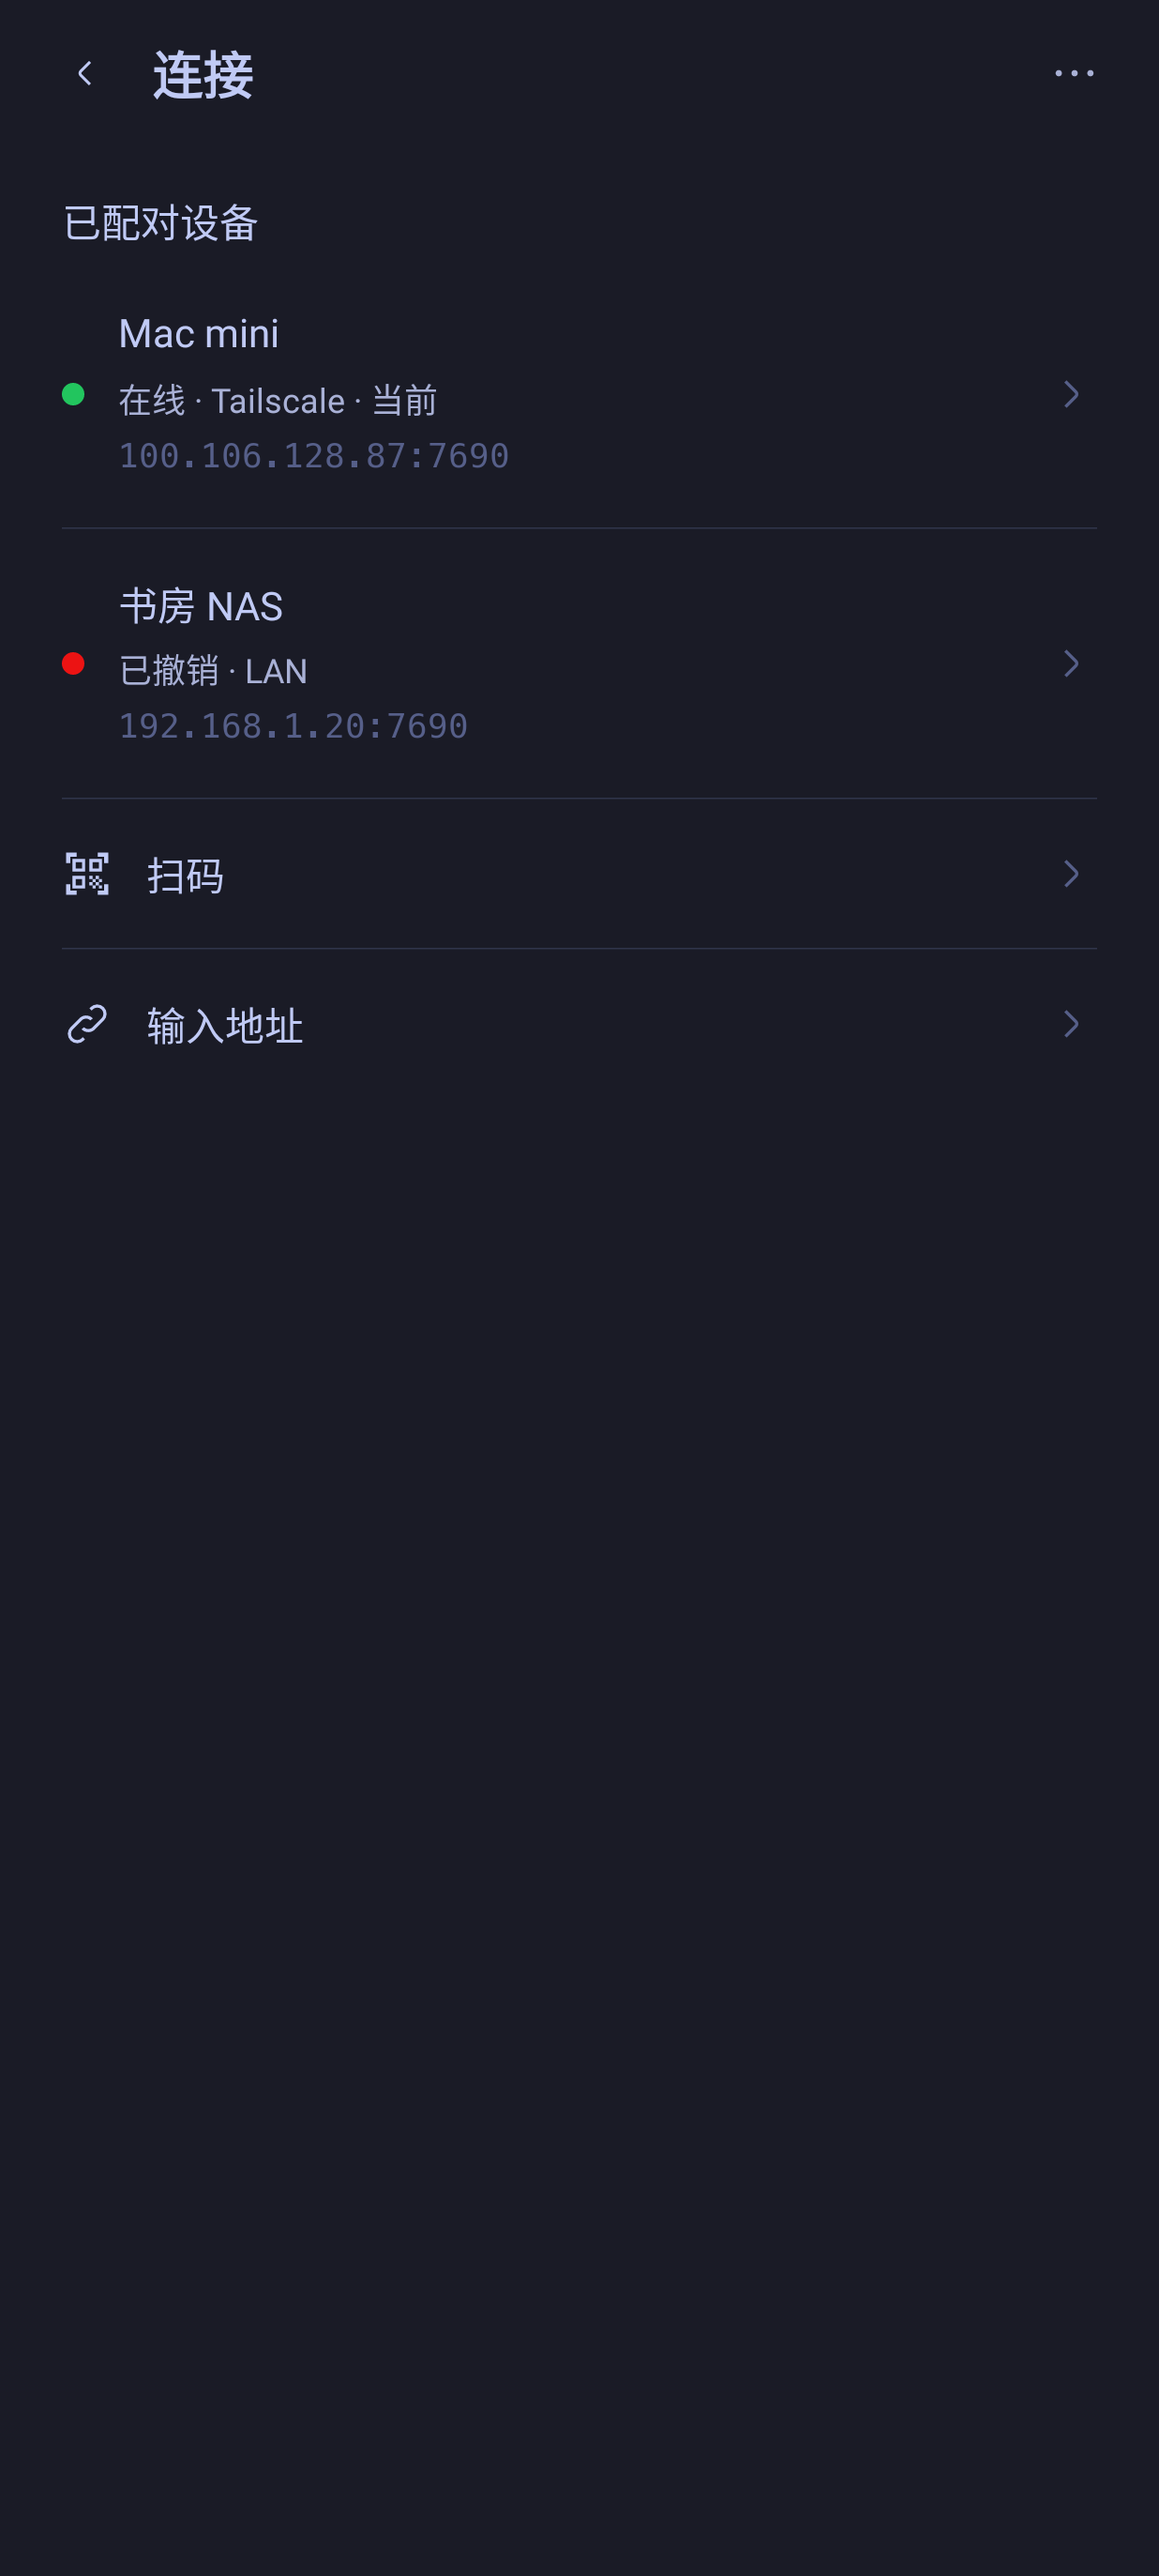
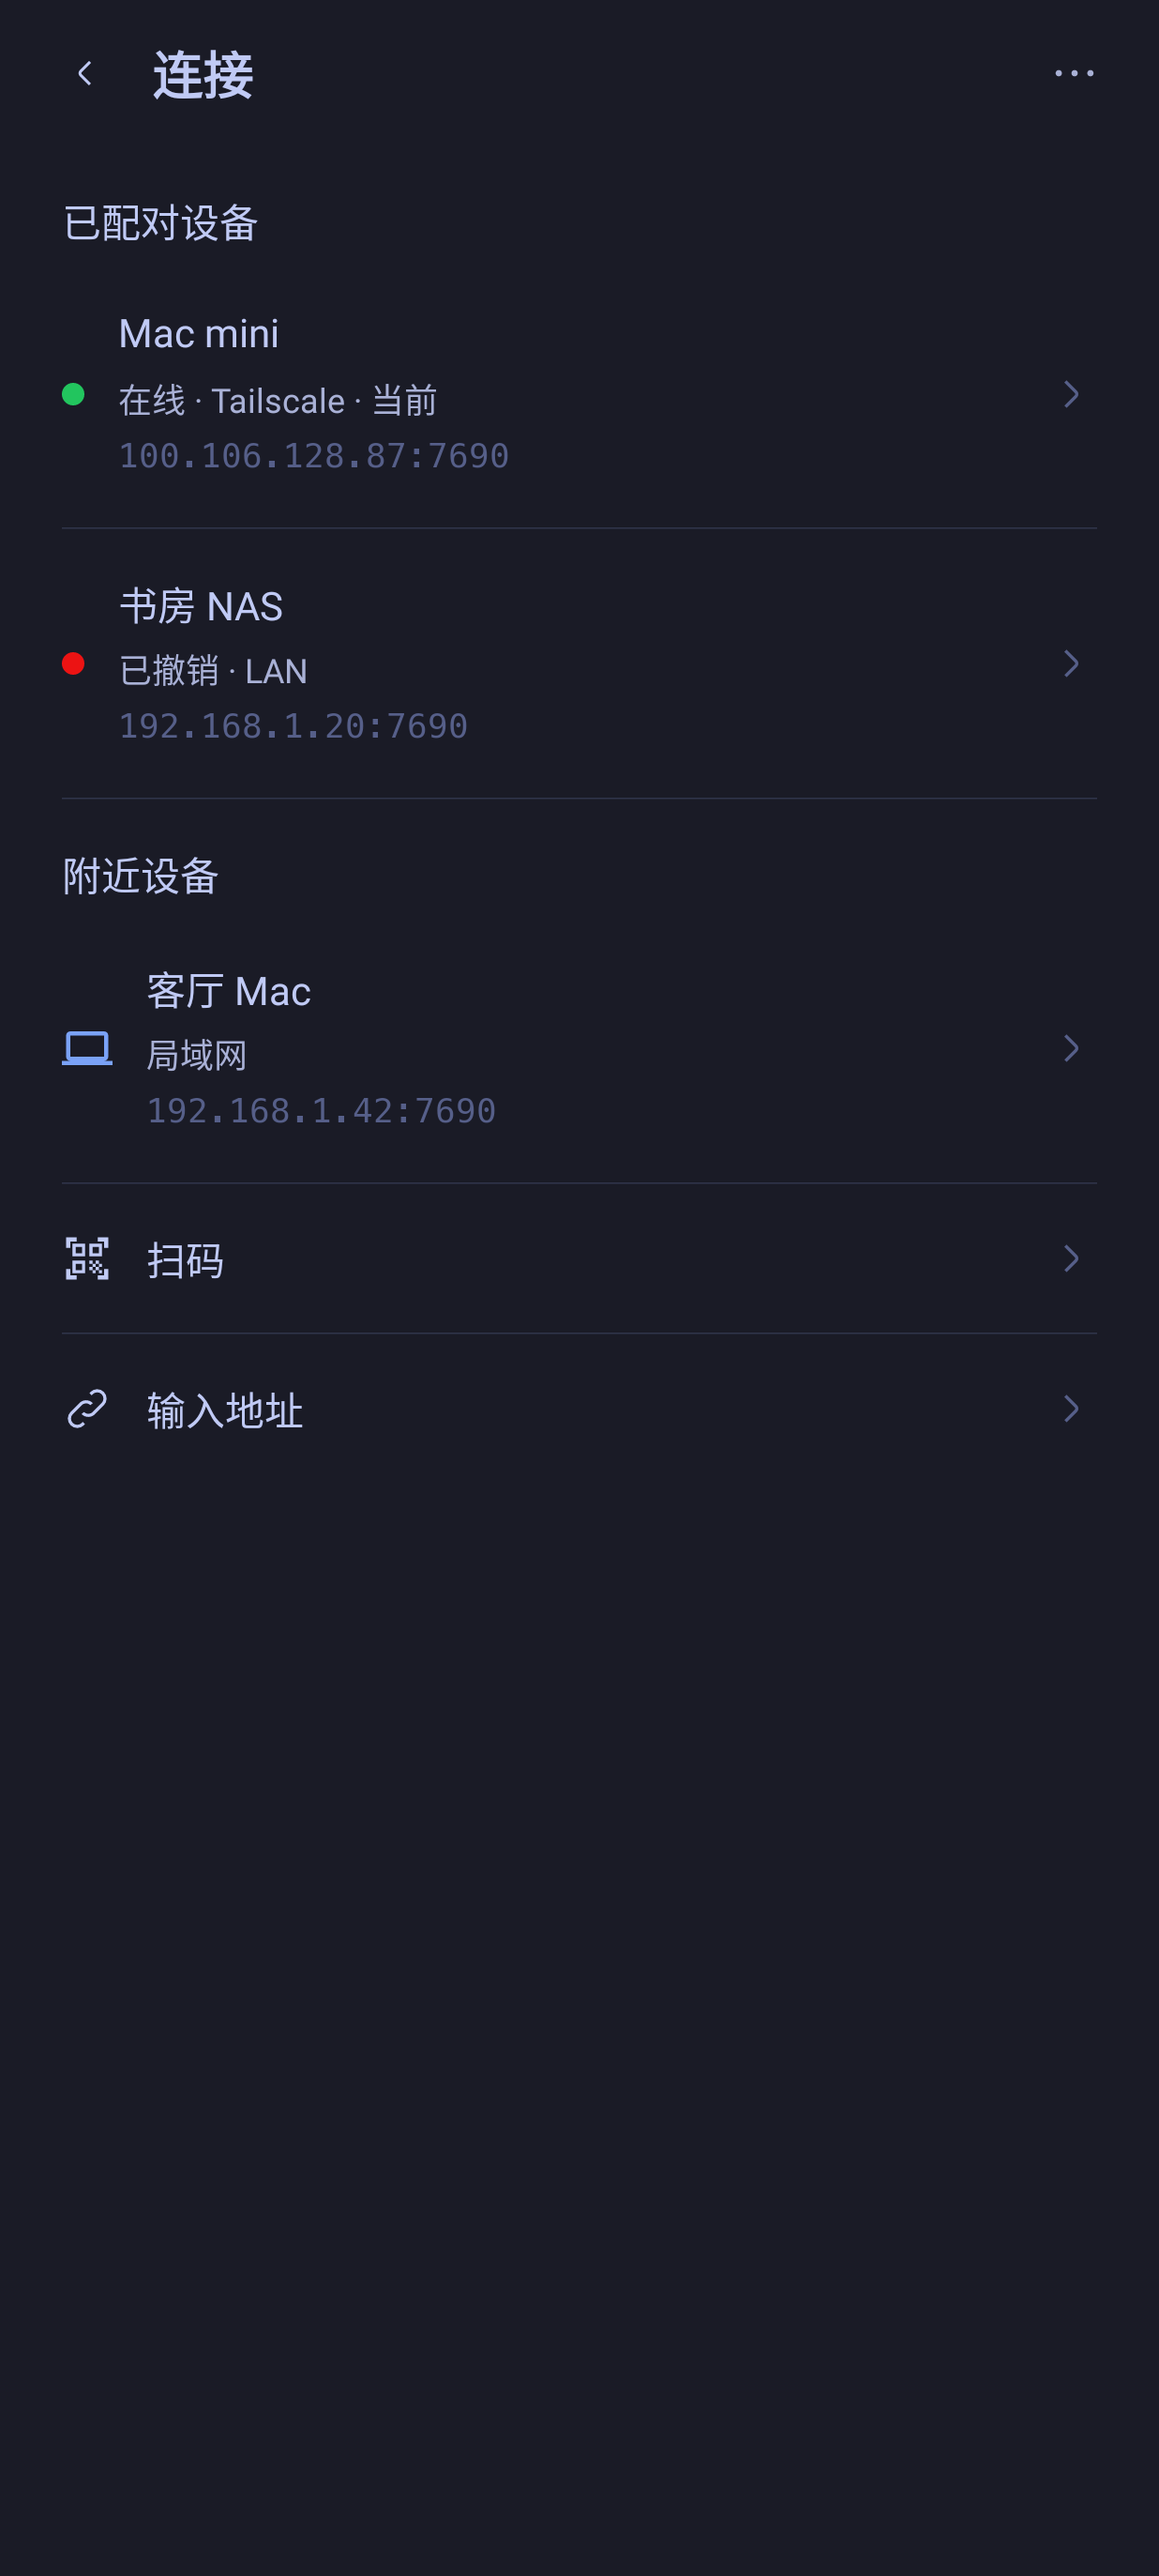
feat(app): show unpaired mDNS hosts under 附近设备 (#53)
List `_dshpocket._tcp` discoveries below 已配对设备 in the same
settings-row chrome. Hide the section when empty (no placeholder);
tap opens the pair sheet prefilled with host and device name.

diff --git a/app/app/src/main/kotlin/dev/dsh/pocket/app/Screens.kt b/app/app/src/main/kotlin/dev/dsh/pocket/app/Screens.kt
@@ -633,7 +633,15 @@ private fun DrawerItem(icon: ImageVector, text: String, enabled: Boolean = true,
 // ---------- Connections (desktop settings list rows · Tokyo Night) ----------
 
 @Composable
-fun ConnectionsScreen(pairLink: PairingLink?, onPairLinkConsumed: () -> Unit, canBack: Boolean, onBack: () -> Unit, onConnected: () -> Unit) {
+fun ConnectionsScreen(
+    pairLink: PairingLink?,
+    onPairLinkConsumed: () -> Unit,
+    canBack: Boolean,
+    onBack: () -> Unit,
+    onConnected: () -> Unit,
+    /** Test/screenshot seed for mDNS `_dshpocket._tcp` rows (production leaves empty). */
+    nearbySeed: List<DiscoveredHost> = emptyList(),
+) {
     val profiles by Pocket.profiles.collectAsState()
     val status by Pocket.status.collectAsState()
     val active by Pocket.active.collectAsState()
@@ -641,13 +649,14 @@ fun ConnectionsScreen(pairLink: PairingLink?, onPairLinkConsumed: () -> Unit, ca
     val en = remember { runCatching { Pocket.prefs.language == AppLanguage.En }.getOrDefault(false) }
     var pairing by remember { mutableStateOf<PairingLink?>(null) }
     var addressHintTab by remember { mutableStateOf(PeerTransport.Lan) }
+    var pairPrefName by remember { mutableStateOf("") }
     var showPair by remember { mutableStateOf(false) }
     var showScan by remember { mutableStateOf(false) }
     var showOverflow by remember { mutableStateOf(false) }
     var showDiagnostics by remember { mutableStateOf(false) }
     var manageId by remember { mutableStateOf<String?>(null) }
     var repairTarget by remember { mutableStateOf<Profile?>(null) }
-    var nearby by remember { mutableStateOf<List<DiscoveredHost>>(emptyList()) }
+    var nearby by remember { mutableStateOf(nearbySeed) }
     var showNearbyPerm by remember { mutableStateOf(false) }
     val manage = manageId?.let { id -> profiles.firstOrNull { it.id == id } }
     val routes by Pocket.routes.collectAsState()
@@ -677,18 +686,30 @@ fun ConnectionsScreen(pairLink: PairingLink?, onPairLinkConsumed: () -> Unit, ca
     }
     val nearbyGranted = Build.VERSION.SDK_INT < 33 ||
         ContextCompat.checkSelfPermission(ctx, Manifest.permission.NEARBY_WIFI_DEVICES) == PackageManager.PERMISSION_GRANTED
+    val needNearbyPerm = NearbyDiscoveryPermissionPolicy.shouldRequest(
+        apiLevel = Build.VERSION.SDK_INT,
+        granted = nearbyGranted,
+        previouslyDeclined = Pocket.prefs.nearbyWifiDeclined,
+    )
     LaunchedEffect(Unit) {
+        if (nearbySeed.isNotEmpty()) return@LaunchedEffect
         while (true) {
             val canceled = AtomicBoolean(false)
             val found = withContext(Dispatchers.IO) { LanDiscovery.scan(ctx, canceled = canceled) }
-            nearby = found.filter { disc -> profiles.none { it.instanceId == disc.instanceId && it.instanceId.isNotBlank() } }
+            nearby = LanDiscovery.unpairedNearby(found, Pocket.profiles.value)
             Pocket.applyDiscoveredHosts(found)
             kotlinx.coroutines.delay(8_000)
+        }
+    }
+    LaunchedEffect(profiles, nearbySeed) {
+        if (nearbySeed.isNotEmpty()) {
+            nearby = LanDiscovery.unpairedNearby(nearbySeed, profiles)
         }
     }
     LaunchedEffect(pairLink) {
         if (pairLink != null) {
             pairing = pairLink
+            pairPrefName = ""
             addressHintTab = when (classifyWsRoute(pairLink.host)) {
                 Route.WsTailscale -> PeerTransport.Tailscale
                 else -> PeerTransport.Lan
@@ -698,18 +719,19 @@ fun ConnectionsScreen(pairLink: PairingLink?, onPairLinkConsumed: () -> Unit, ca
         }
     }
 
-    fun openAddressSheet(seed: PairingLink? = null, tab: PeerTransport = PeerTransport.Lan) {
+    fun openAddressSheet(
+        seed: PairingLink? = null,
+        tab: PeerTransport = PeerTransport.Lan,
+        name: String = "",
+    ) {
         addressHintTab = tab
         pairing = seed
+        pairPrefName = name
         showPair = true
     }
 
     val compatibility by Pocket.compatibility.collectAsState()
-    val needNearbyPerm = NearbyDiscoveryPermissionPolicy.shouldRequest(
-        apiLevel = Build.VERSION.SDK_INT,
-        granted = nearbyGranted,
-        previouslyDeclined = Pocket.prefs.nearbyWifiDeclined,
-    )
+    val lanLabel = PeerTransport.Lan.label(en)
     Column(Modifier.fillMaxSize().background(Conn.Bg).systemBarsPadding().verticalScroll(rememberScrollState())) {
         ConnHeader(
             title = L.connections(),
@@ -736,26 +758,25 @@ fun ConnectionsScreen(pairLink: PairingLink?, onPairLinkConsumed: () -> Unit, ca
             ConnHairline()
         }
 
-        if (needNearbyPerm || nearby.isNotEmpty()) {
-            ConnSectionTitle(L.nearbyComputers())
-            when {
-                needNearbyPerm -> ConnActionRow(
-                    title = L.allowNearby(),
-                    icon = D.link,
-                    divider = false,
-                    onClick = { showNearbyPerm = true },
+        // 附近设备 — mDNS unpaired only; hide entirely when empty (no placeholder).
+        if (nearby.isNotEmpty()) {
+            ConnSectionTitle(L.nearbyDevices())
+            nearby.forEachIndexed { i, h ->
+                ConnDeviceRow(
+                    name = h.deviceName,
+                    statusLine = lanLabel,
+                    detail = "${h.host}:${h.port}",
+                    warn = false,
+                    divider = i < nearby.lastIndex,
+                    onClick = {
+                        openAddressSheet(
+                            PairingLink(h.host, h.port, ""),
+                            PeerTransport.Lan,
+                            name = h.deviceName,
+                        )
+                    },
+                    leading = { Icon(Icons.Outlined.Computer, null, tint = Conn.Accent, modifier = Modifier.size(18.dp)) },
                 )
-                else -> nearby.forEachIndexed { i, h ->
-                    ConnDeviceRow(
-                        name = h.deviceName,
-                        statusLine = "LAN",
-                        detail = "${h.host}:${h.port}",
-                        warn = false,
-                        divider = i < nearby.lastIndex,
-                        onClick = { openAddressSheet(PairingLink(h.host, h.port, ""), PeerTransport.Lan) },
-                        leading = { Icon(Icons.Outlined.Computer, null, tint = Conn.Accent, modifier = Modifier.size(18.dp)) },
-                    )
-                }
             }
             ConnHairline()
         }
@@ -787,16 +808,18 @@ fun ConnectionsScreen(pairLink: PairingLink?, onPairLinkConsumed: () -> Unit, ca
     if (showOverflow) {
         ConnOverflowSheet(
             onDismiss = { showOverflow = false },
+            showNearbyAllow = needNearbyPerm,
+            onNearbyAllow = { showOverflow = false; showNearbyPerm = true },
             onDiagnostics = { showOverflow = false; showDiagnostics = true },
         )
     }
     if (showDiagnostics) DiagnosticsSheet(onDismiss = { showDiagnostics = false })
     if (showPair) PairSheet(
         link = pairing,
-        prefName = repairTarget?.name.orEmpty(),
+        prefName = repairTarget?.name?.takeIf { it.isNotBlank() } ?: pairPrefName,
         addressHint = peerAddressHint(addressHintTab, en),
-        onDismiss = { showPair = false; repairTarget = null },
-    ) { p -> showPair = false; repairTarget = null; Pocket.connect(p.id); onConnected() }
+        onDismiss = { showPair = false; repairTarget = null; pairPrefName = "" },
+    ) { p -> showPair = false; repairTarget = null; pairPrefName = ""; Pocket.connect(p.id); onConnected() }
     if (showScan) ScanPairFlow(
         onResult = { link -> pairing = link; showScan = false; showPair = true },
         onDismiss = { showScan = false },
@@ -811,6 +834,7 @@ fun ConnectionsScreen(pairLink: PairingLink?, onPairLinkConsumed: () -> Unit, ca
             onRepair = {
                 manageId = null
                 repairTarget = p
+                pairPrefName = ""
                 pairing = if (!p.needsRepair) PairingLink(p.host, p.port, "") else null
                 addressHintTab = if (PeerTransport.Tailscale.matchesProfile(p)) PeerTransport.Tailscale else PeerTransport.Lan
                 showPair = true
@@ -959,9 +983,15 @@ private fun buildConnStatusLine(dot: Dot?, routeLabel: String, isCurrent: Boolea
 }
 
 @Composable
-fun ConnOverflowSheet(onDismiss: () -> Unit, onDiagnostics: () -> Unit) {
+fun ConnOverflowSheet(
+    onDismiss: () -> Unit,
+    onDiagnostics: () -> Unit,
+    showNearbyAllow: Boolean = false,
+    onNearbyAllow: () -> Unit = {},
+) {
     ConnSheet(onDismiss) {
         ConnSheetTitle(L.moreActions())
+        if (showNearbyAllow) ConnOptionRow(L.allowNearby(), icon = D.link, onClick = onNearbyAllow)
         ConnOptionRow(L.diagnostics(), icon = D.inspect, onClick = onDiagnostics)
     }
 }
@@ -1062,7 +1092,7 @@ private fun dotLabel(d: Dot?) = when (d) {
 @Composable
 fun NearbyWifiPermissionSheet(onDismiss: () -> Unit, onAllow: () -> Unit) {
     ConnSheet(onDismiss) {
-        ConnSheetTitle(L.nearbyComputers())
+        ConnSheetTitle(L.nearbyDevices())
         Row(Modifier.padding(horizontal = 22.dp, vertical = 16.dp), horizontalArrangement = Arrangement.spacedBy(10.dp)) {
             OutlinedButton(
                 onDismiss, Modifier.weight(1f).height(48.dp), shape = Conn.R12,

diff --git a/app/app/src/test/kotlin/dev/dsh/pocket/app/ScreenshotTest.kt b/app/app/src/test/kotlin/dev/dsh/pocket/app/ScreenshotTest.kt
@@ -124,8 +124,19 @@ class ScreenshotTest {
         show("03-approval") { ChatRoot(onMenu = {}) }
     }
     @Test fun s04_drawer() = show("04-drawer") { SessionDrawer({}, {}, {}, {}) }
-    @Test fun s05_connections() = show("05-connections") { ConnectionsScreen(null, {}, true, {}, {}) }
-    @Test fun s06_connectionsEmpty() { Pocket.profiles.value = emptyList(); Pocket.active.value = null; show("06-connections-empty") { ConnectionsScreen(null, {}, false, {}, {}) } }
+    @Test fun s05_connections() = show("05-connections") {
+        ConnectionsScreen(
+            null, {}, true, {}, {},
+            nearbySeed = listOf(
+                DiscoveredHost("客厅 Mac", "192.168.1.42", 7690, "f".repeat(64)),
+            ),
+        )
+    }
+    @Test fun s06_connectionsEmpty() {
+        Pocket.profiles.value = emptyList()
+        Pocket.active.value = null
+        show("06-connections-empty") { ConnectionsScreen(null, {}, false, {}, {}) }
+    }
     @Test fun s07_pairSheet() { Pocket.profiles.value = emptyList(); showWithDialogs("07-pair-sheet") { PairSheet(PairingLink("100.106.128.87", 7690, "752314"), onDismiss = {}, onPaired = {}) } }
     @Test fun s07b_cameraPermissionSheet() = showWithDialogs("07b-camera-permission") { CameraPermissionSheet({}, {}) }
     @Test fun s08_settings() = show("08-settings") {

diff --git a/app/app/src/test/kotlin/dev/dsh/pocket/app/LanDiscoveryTest.kt b/app/app/src/test/kotlin/dev/dsh/pocket/app/LanDiscoveryTest.kt
@@ -36,4 +36,20 @@ class LanDiscoveryTest {
         assertEquals("192.168.1.55", updated!!.host)
         assertNull(LanDiscovery.applyAddressUpdate(profile, DiscoveredHost("Other", "192.168.1.55", 7690, "c".repeat(64))))
     }
+
+    @Test
+    fun unpairedNearbyDropsPairedInstanceAndHostPort() {
+        val pairedId = "d".repeat(64)
+        val otherId = "e".repeat(64)
+        val profiles = listOf(Profile("p1", "Mac", host = "192.168.1.10", port = 7690, instanceId = pairedId))
+        val found = listOf(
+            DiscoveredHost("Mac", "192.168.1.10", 7690, pairedId),
+            DiscoveredHost("NAS", "192.168.1.10", 7690, otherId), // same host:port as paired
+            DiscoveredHost("Studio", "192.168.1.42", 7690, otherId),
+        )
+        assertEquals(
+            listOf(DiscoveredHost("Studio", "192.168.1.42", 7690, otherId)),
+            LanDiscovery.unpairedNearby(found, profiles),
+        )
+    }
 }

diff --git a/app/app/src/main/kotlin/dev/dsh/pocket/app/LanDiscovery.kt b/app/app/src/main/kotlin/dev/dsh/pocket/app/LanDiscovery.kt
@@ -22,6 +22,18 @@ object LanDiscovery {
         }.values.toList()
 
     /**
+     * Keep only `_dshpocket._tcp` hosts that are not already paired
+     * (by instance id or host:port).
+     */
+    fun unpairedNearby(found: List<DiscoveredHost>, profiles: List<Profile>): List<DiscoveredHost> =
+        found.filter { disc ->
+            profiles.none { p ->
+                (p.instanceId.isNotBlank() && p.instanceId == disc.instanceId) ||
+                    (!p.needsRepair && p.host == disc.host && p.port == disc.port)
+            }
+        }
+
+    /**
      * When a paired profile's instance appears with a new host:port, return an updated copy.
      * Does not change credentials — only the reachable address.
      */

diff --git a/app/app/src/main/kotlin/dev/dsh/pocket/app/L10n.kt b/app/app/src/main/kotlin/dev/dsh/pocket/app/L10n.kt
@@ -140,6 +140,8 @@ object L {
     fun diagnosticsChecking() = if (en) "Checking…" else "正在检查…"
     fun diagnosticsUnavailable() = if (en) "Diagnostics unavailable" else "诊断服务暂不可用"
     fun nearbyComputers() = if (en) "Nearby computers" else "附近的电脑"
+    /** mDNS `_dshpocket._tcp` unpaired desktops on the LAN (connections list). */
+    fun nearbyDevices() = if (en) "Nearby devices" else "附近设备"
     fun repairPair() = if (en) "Pair again" else "重新配对"
     fun online() = if (en) "Online" else "在线"
     fun offline() = if (en) "Offline" else "离线"
